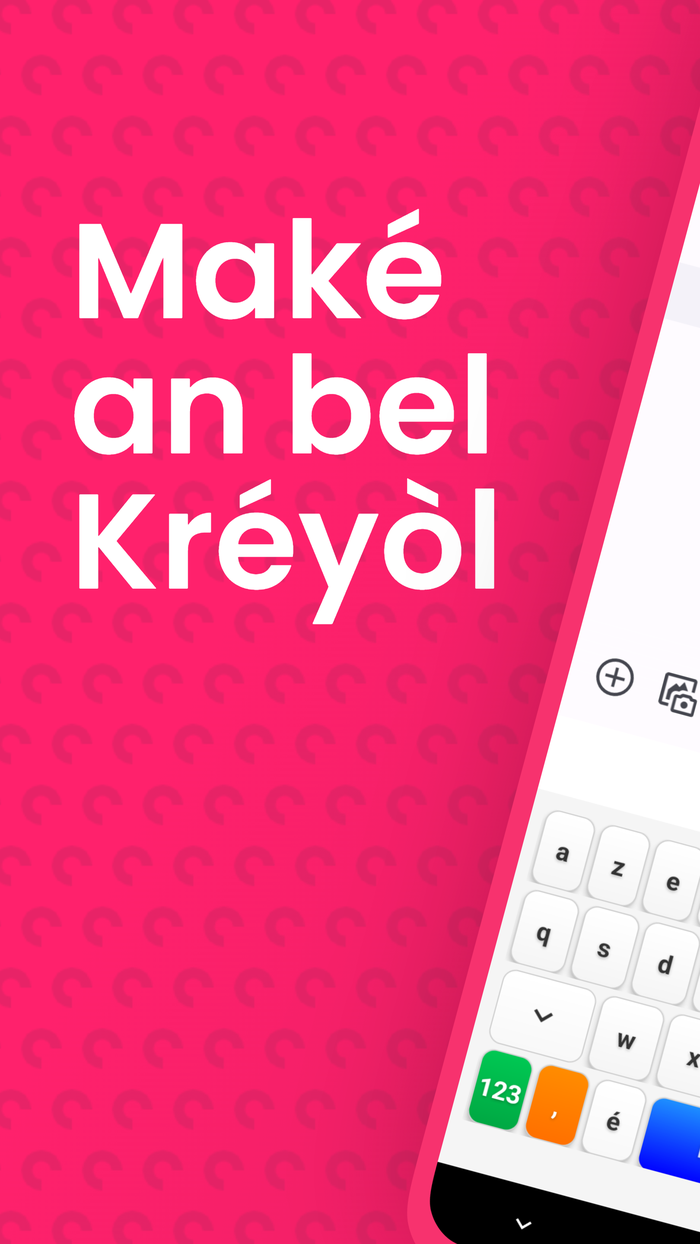
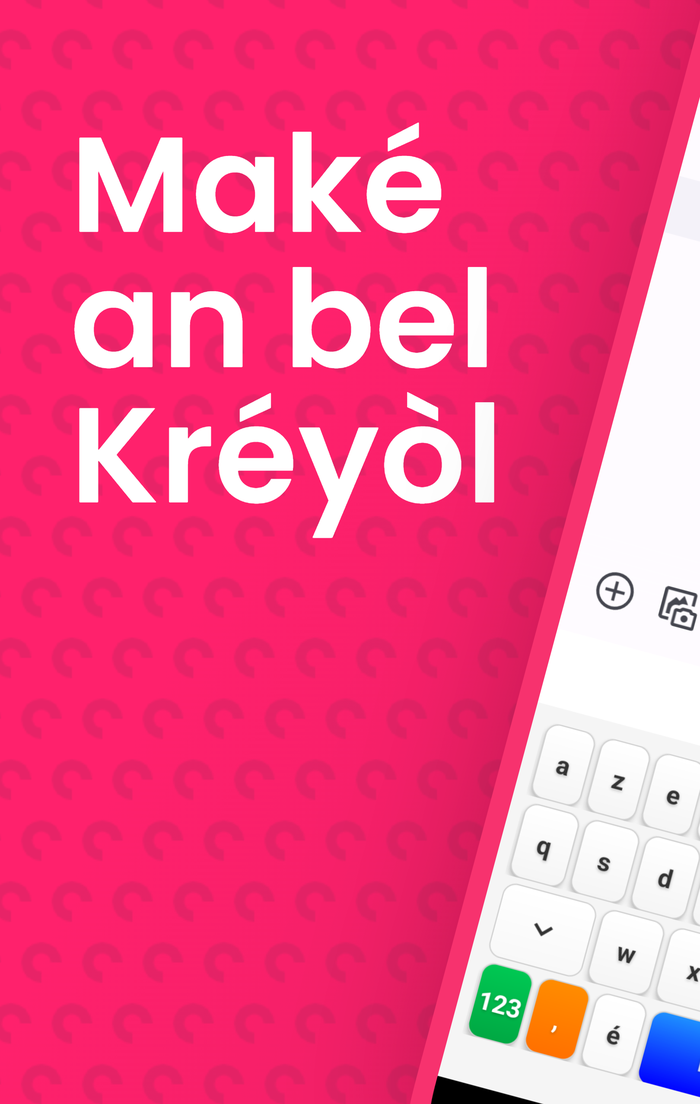
fix(docs): corrige le montage photo et l'alignement du tract A5
Recadre le haut des captures S21 Ultra (bande blanche avec chiffres
tronqués) et aligne verticalement le clavier entre les deux panneaux
du diptyque. Réorganise le CTA, la pastille « 100% gratuit » et le
QR code sur une même rangée alignée en bas du tract.

diff --git a/docs/tract.html b/docs/tract.html
@@ -69,8 +69,16 @@ h1{font-size:clamp(27px,6vw,36px);font-weight:800;line-height:1.1;letter-spacing
     radial-gradient(circle at 12% 10%, rgba(255,255,255,.10), transparent 45%),
     linear-gradient(115deg,#FF216C 0%,#FF216C 52%,#E01E5F 100%);
   display:flex;
-  gap:6mm;
+  flex-direction:column;
+  gap:4mm;
   padding:8mm 9mm 7mm;
+}
+.top{
+  display:flex;
+  gap:6mm;
+  flex:1 1 auto;
+  min-height:0;
+  align-items:center;
 }
 .col-left{
   flex:1 1 auto;
@@ -144,7 +152,7 @@ h1{font-size:clamp(27px,6vw,36px);font-weight:800;line-height:1.1;letter-spacing
   font-size:17.5px;
 }
 .cta{
-  margin-top:auto;
+  flex:1 1 auto;
   background:#FFFFFF;
   color:#E01E5F;
   font-family:"Fredoka",sans-serif;
@@ -158,30 +166,30 @@ h1{font-size:clamp(27px,6vw,36px);font-weight:800;line-height:1.1;letter-spacing
   box-shadow:0 6px 18px rgba(0,0,0,.22);
 }
 .col-right{
-  flex:0 0 88mm;
+  flex:0 0 auto;
   display:flex;
   flex-direction:column;
   align-items:center;
 }
 .diptych{
   display:flex;
+  gap:2.5mm;
   border:3px solid #FFFFFF;
   border-radius:12px;
   overflow:hidden;
   box-shadow:0 10px 26px rgba(0,0,0,.28);
-  background:#FF216C;
+  background:#FFFFFF;
 }
 .diptych img{
   display:block;
-  width:41mm;
+  width:45mm;
   height:auto;
+  border-radius:7px;
 }
-.qr-row{
+.bottom-row{
   display:flex;
   align-items:center;
-  justify-content:center;
   gap:6mm;
-  margin-top:4.5mm;
 }
 .stamp{
   width:31mm;
@@ -222,7 +230,7 @@ h1{font-size:clamp(27px,6vw,36px);font-weight:800;line-height:1.1;letter-spacing
   text-transform:uppercase;
   letter-spacing:.04em;
   text-align:center;
-  margin-top:2mm;
+  margin-top:2.5mm;
 }
 .credit{
   position:absolute;
@@ -297,34 +305,36 @@ h1{font-size:clamp(27px,6vw,36px);font-weight:800;line-height:1.1;letter-spacing
   <div class="page">
 
     <div class="tract">
-      <div class="col-left">
-        <div class="badge-row">
-          <div class="logo-badge"><img src="assets/potomitan-logo.png" alt="Potomitan"></div>
-          <span class="badge">KLAVYÉ KRÉYÒL KARUKERA</span>
+      <div class="top">
+        <div class="col-left">
+          <div class="badge-row">
+            <div class="logo-badge"><img src="assets/potomitan-logo.png" alt="Potomitan"></div>
+            <span class="badge">KLAVYÉ KRÉYÒL KARUKERA</span>
+          </div>
+          <p class="headline">Pourquoi<br>ce clavier ?</p>
+          <ul class="probs">
+            <li><span class="emo">🤔</span><span>Ton téléphone refuse tous les mots créoles et «&nbsp;corrige&nbsp;» ton kréyòl en français&nbsp;?</span></li>
+            <li><span class="emo">😤</span><span>Tu doutes de l'orthographe à chaque message&nbsp;?</span></li>
+            <li><span class="emo">➡️</span><span class="fanm">Klavyé Kréyòl Karukera est fait pour&nbsp;toi.</span></li>
+          </ul>
         </div>
-        <p class="headline">Pourquoi<br>ce clavier ?</p>
-        <ul class="probs">
-          <li><span class="emo">🤔</span><span>Ton téléphone refuse tous les mots créoles et «&nbsp;corrige&nbsp;» ton kréyòl en français&nbsp;?</span></li>
-          <li><span class="emo">😤</span><span>Tu doutes de l'orthographe à chaque message&nbsp;?</span></li>
-          <li><span class="emo">➡️</span><span class="fanm">Klavyé Kréyòl Karukera est fait pour toi.</span></li>
-        </ul>
-        <div class="cta">📲 Flash le code,<br>installe Klavyé Kréyòl</div>
+        <div class="col-right">
+          <div class="diptych">
+            <img src="assets/tract-visuel-1.png" alt="Klavyé Kréyòl Karukera : maké an bel kréyòl">
+            <img src="assets/tract-visuel-2.png" alt="Conversation SMS écrite en créole avec le clavier">
+          </div>
+          <div class="qr-label">Disponible sur Google Play</div>
+        </div>
       </div>
-      <div class="col-right">
-        <div class="diptych">
-          <img src="assets/tract-visuel-1.png" alt="Klavyé Kréyòl Karukera : maké an bel kréyòl">
-          <img src="assets/tract-visuel-2.png" alt="Conversation SMS écrite en créole avec le clavier">
+      <div class="bottom-row">
+        <div class="cta">📲 Flash le code,<br>installe Klavyé Kréyòl</div>
+        <div class="stamp">
+          <span class="big">100%<br>gratuit</span>
+          <span class="small">zéro pub</span>
         </div>
-        <div class="qr-row">
-          <div class="stamp">
-            <span class="big">100%<br>gratuit</span>
-            <span class="small">zéro pub</span>
-          </div>
-          <div class="qr-wrap">
-            <img src="assets/qr-google-play.png" alt="QR code vers Klavyé Kréyòl Karukera sur Google Play">
-          </div>
+        <div class="qr-wrap">
+          <img src="assets/qr-google-play.png" alt="QR code vers Klavyé Kréyòl Karukera sur Google Play">
         </div>
-        <div class="qr-label">Disponible sur Google Play</div>
       </div>
       <div class="credit">famibelle.github.io/KreyolKeyb/ · Créé par un Guadeloupéen pour les Guadeloupéens 🏝️ · [email redacted]</div>
     </div>
@@ -332,34 +342,36 @@ h1{font-size:clamp(27px,6vw,36px);font-weight:800;line-height:1.1;letter-spacing
     <div class="cutline"></div>
 
     <div class="tract">
-      <div class="col-left">
-        <div class="badge-row">
-          <div class="logo-badge"><img src="assets/potomitan-logo.png" alt="Potomitan"></div>
-          <span class="badge">KLAVYÉ KRÉYÒL KARUKERA</span>
+      <div class="top">
+        <div class="col-left">
+          <div class="badge-row">
+            <div class="logo-badge"><img src="assets/potomitan-logo.png" alt="Potomitan"></div>
+            <span class="badge">KLAVYÉ KRÉYÒL KARUKERA</span>
+          </div>
+          <p class="headline">Pourquoi<br>ce clavier ?</p>
+          <ul class="probs">
+            <li><span class="emo">🤔</span><span>Ton téléphone refuse tous les mots créoles et «&nbsp;corrige&nbsp;» ton kréyòl en français&nbsp;?</span></li>
+            <li><span class="emo">😤</span><span>Tu doutes de l'orthographe à chaque message&nbsp;?</span></li>
+            <li><span class="emo">➡️</span><span class="fanm">Klavyé Kréyòl Karukera est fait pour&nbsp;toi.</span></li>
+          </ul>
         </div>
-        <p class="headline">Pourquoi<br>ce clavier ?</p>
-        <ul class="probs">
-          <li><span class="emo">🤔</span><span>Ton téléphone refuse tous les mots créoles et «&nbsp;corrige&nbsp;» ton kréyòl en français&nbsp;?</span></li>
-          <li><span class="emo">😤</span><span>Tu doutes de l'orthographe à chaque message&nbsp;?</span></li>
-          <li><span class="emo">➡️</span><span class="fanm">Klavyé Kréyòl Karukera est fait pour toi.</span></li>
-        </ul>
-        <div class="cta">📲 Flash le code,<br>installe Klavyé Kréyòl</div>
+        <div class="col-right">
+          <div class="diptych">
+            <img src="assets/tract-visuel-1.png" alt="Klavyé Kréyòl Karukera : maké an bel kréyòl">
+            <img src="assets/tract-visuel-2.png" alt="Conversation SMS écrite en créole avec le clavier">
+          </div>
+          <div class="qr-label">Disponible sur Google Play</div>
+        </div>
       </div>
-      <div class="col-right">
-        <div class="diptych">
-          <img src="assets/tract-visuel-1.png" alt="Klavyé Kréyòl Karukera : maké an bel kréyòl">
-          <img src="assets/tract-visuel-2.png" alt="Conversation SMS écrite en créole avec le clavier">
+      <div class="bottom-row">
+        <div class="cta">📲 Flash le code,<br>installe Klavyé Kréyòl</div>
+        <div class="stamp">
+          <span class="big">100%<br>gratuit</span>
+          <span class="small">zéro pub</span>
         </div>
-        <div class="qr-row">
-          <div class="stamp">
-            <span class="big">100%<br>gratuit</span>
-            <span class="small">zéro pub</span>
-          </div>
-          <div class="qr-wrap">
-            <img src="assets/qr-google-play.png" alt="QR code vers Klavyé Kréyòl Karukera sur Google Play">
-          </div>
+        <div class="qr-wrap">
+          <img src="assets/qr-google-play.png" alt="QR code vers Klavyé Kréyòl Karukera sur Google Play">
         </div>
-        <div class="qr-label">Disponible sur Google Play</div>
       </div>
       <div class="credit">famibelle.github.io/KreyolKeyb/ · Créé par un Guadeloupéen pour les Guadeloupéens 🏝️ · [email redacted]</div>
     </div>